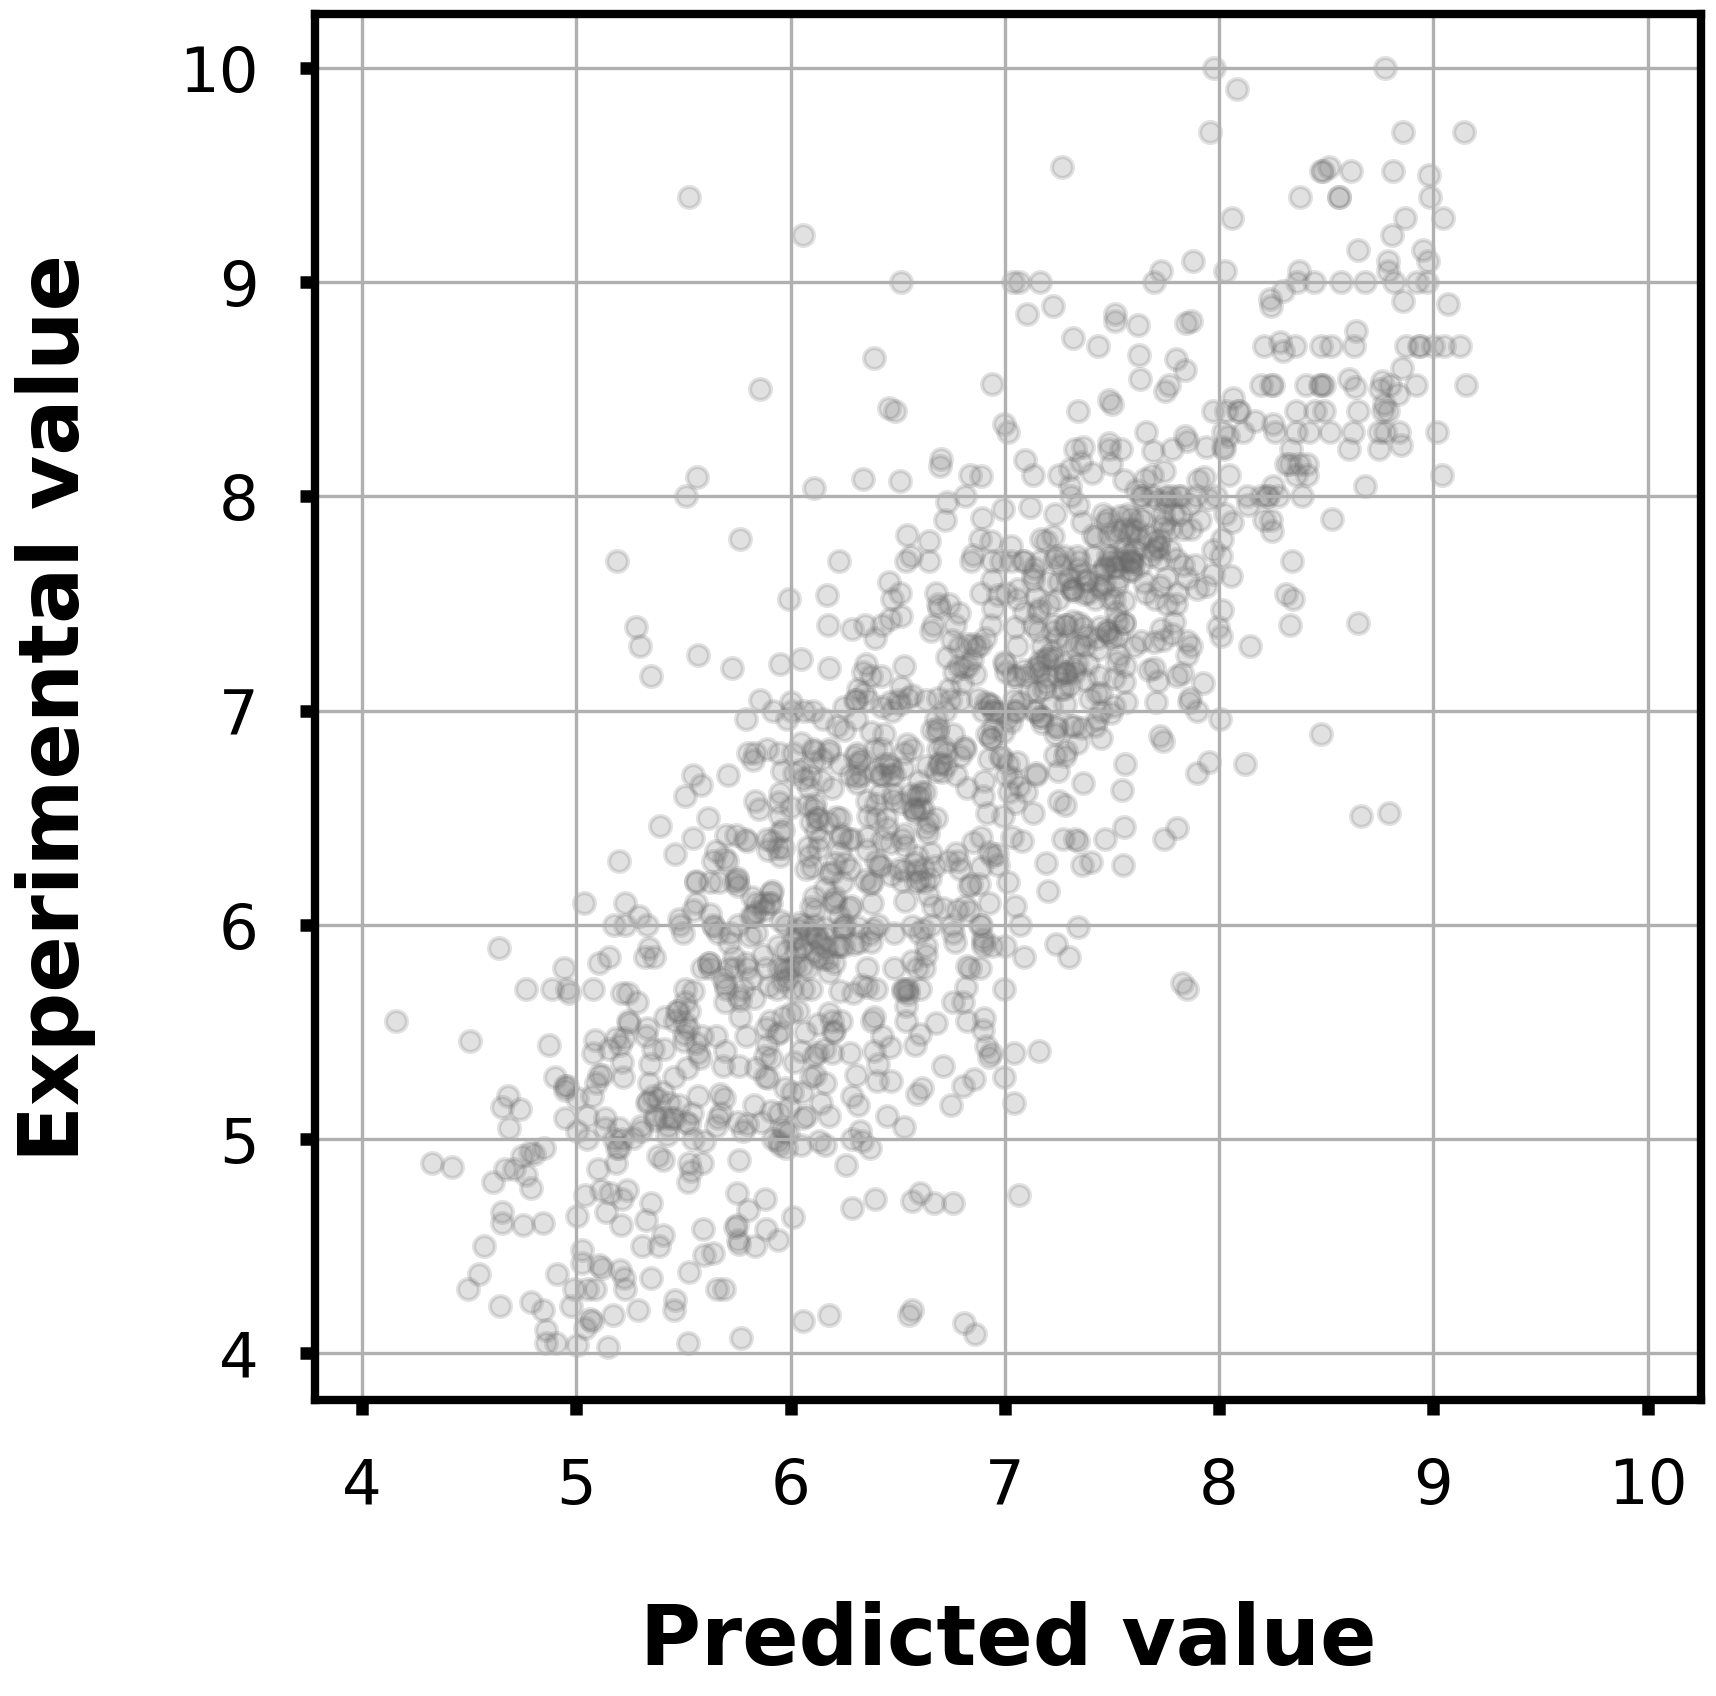
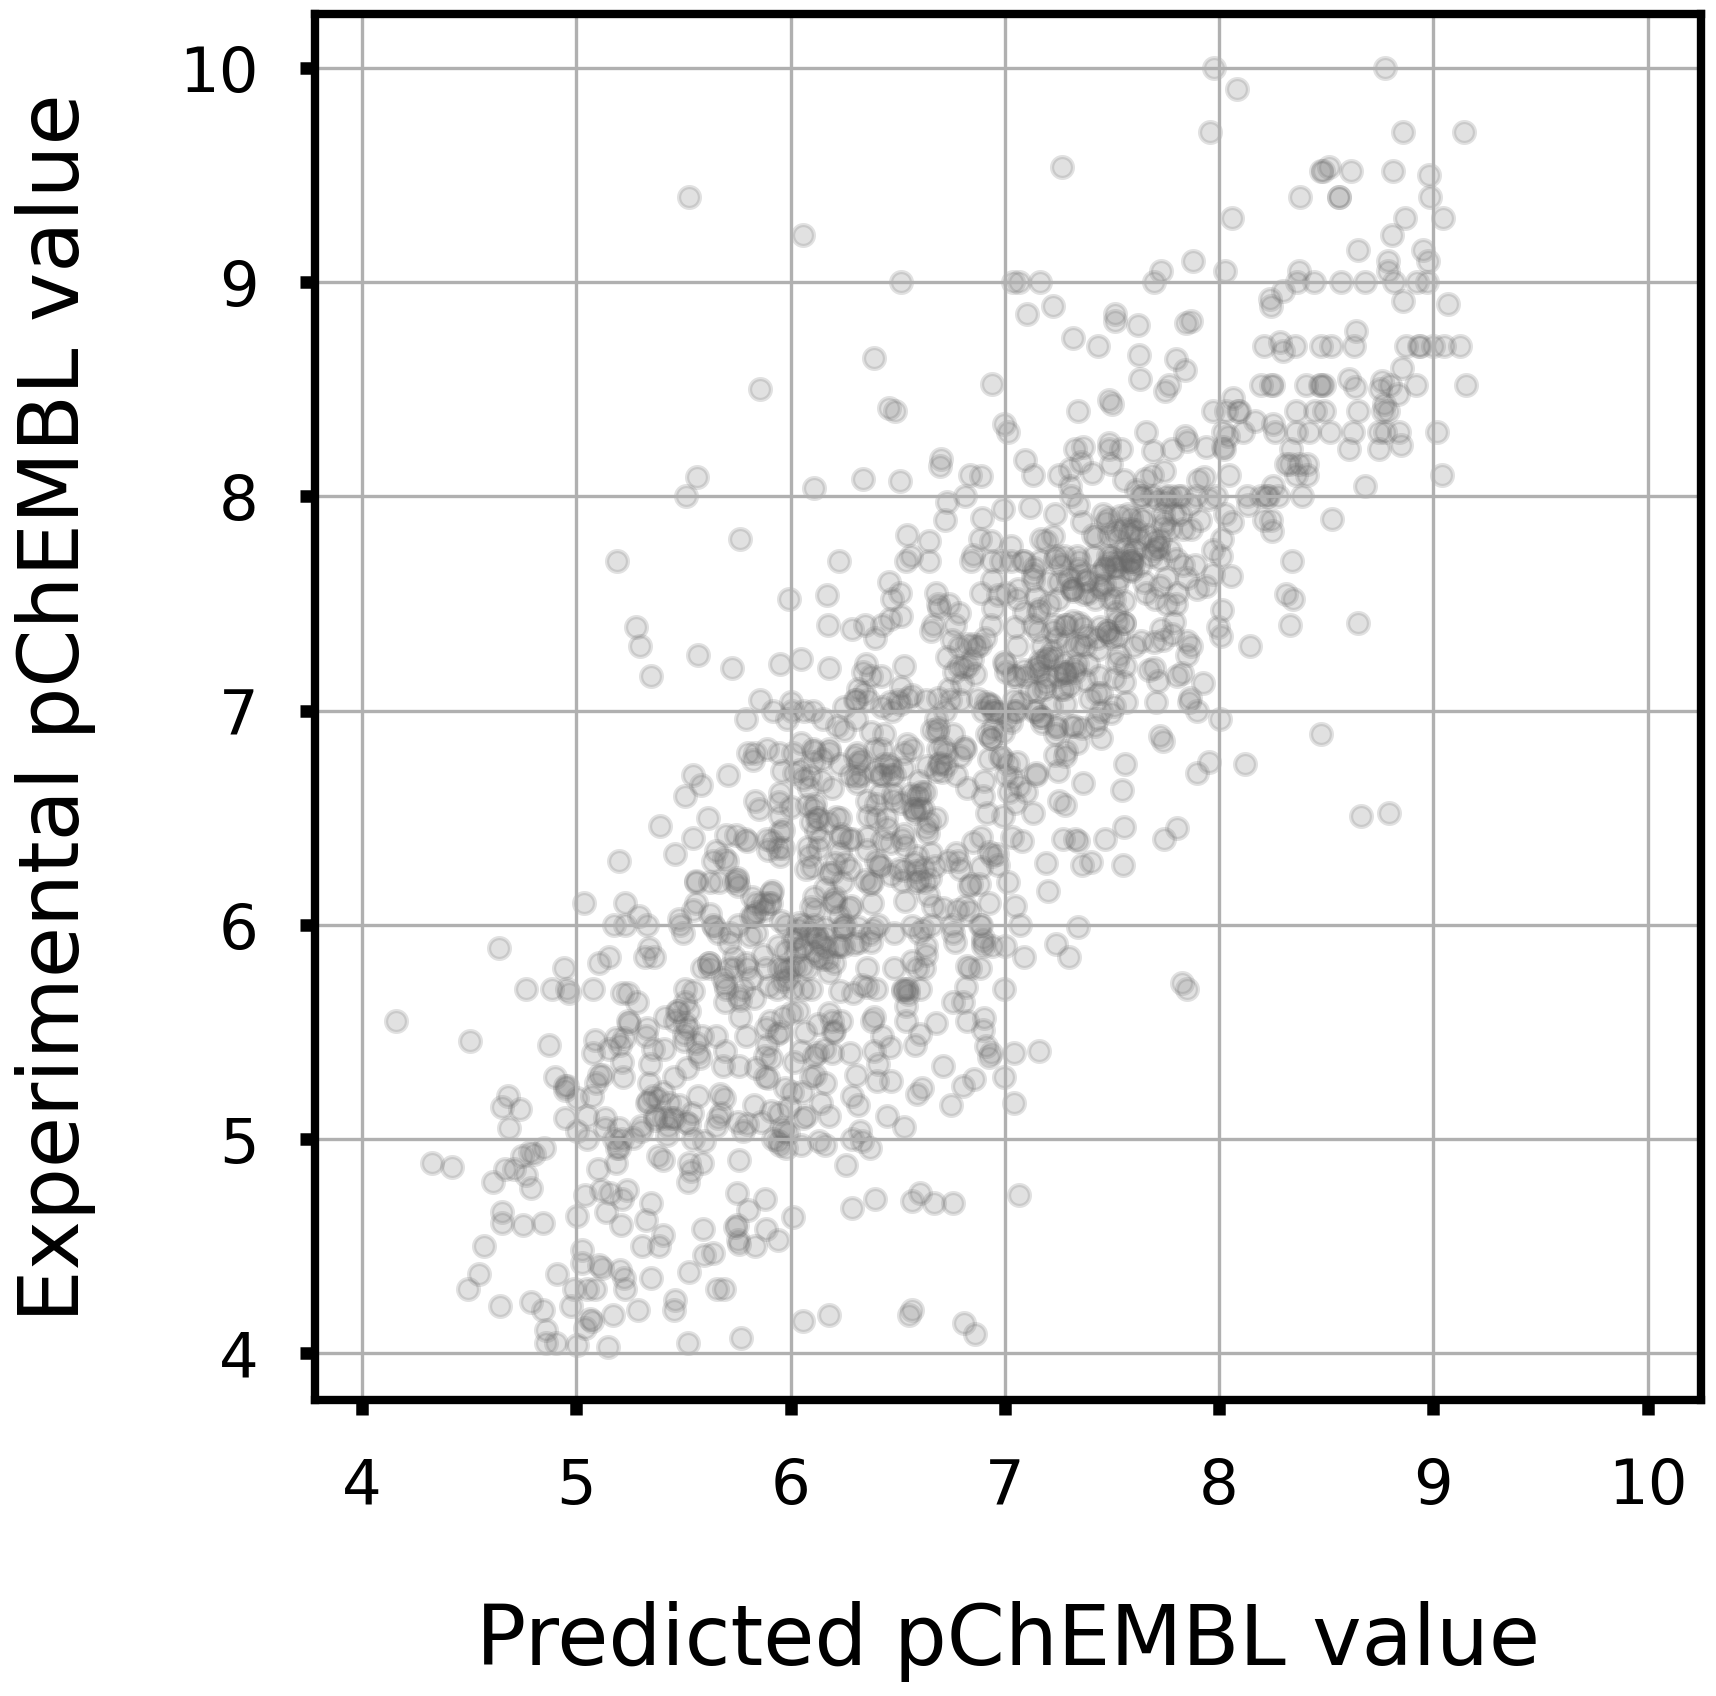
style: edit axis label name and weight

Changed region(s): [[0.0, 0.0625, 0.0618, 0.7812], [0.278, 0.9375, 0.8957, 1.0]]

diff --git a/affinity/BACE1/make_scatter_plot.py b/affinity/BACE1/make_scatter_plot.py
@@ -16,8 +16,8 @@ def make_scatter_plot(y_true, y_pred):
     min_val = min(min(y_true, y_pred, key=min))
     fig, ax = plt.subplots(figsize=(6, 6))
     ax.scatter(y_pred, y_true, marker='o', s=25, c='dimgray', alpha=0.2)
-    ax.set_xlabel('Predicted value', fontsize=20, labelpad=20, weight='bold')
-    ax.set_ylabel('Experimental value', fontsize=20, labelpad=20, weight='bold')
+    ax.set_xlabel('Predicted $\mathrm{pIC_{50}}$', fontsize=20, labelpad=20, weight='normal')
+    ax.set_ylabel('Experimental $\mathrm{pIC_{50}}$', fontsize=20, labelpad=20, weight='normal')
     ax.xaxis.set_tick_params(direction='out', labelsize=15, width=3, pad=10)
     ax.yaxis.set_tick_params(direction='out', labelsize=15, width=3, pad=10)
     ax.xaxis.set_major_locator(mpl.ticker.MultipleLocator(1))

diff --git a/affinity/ABL/make_scatter_plot.py b/affinity/ABL/make_scatter_plot.py
@@ -15,8 +15,8 @@ def make_scatter_plot(y_true, y_pred):
     min_val = min(min(y_true, y_pred, key=min))
     fig, ax = plt.subplots(figsize=(6, 6))
     ax.scatter(y_pred, y_true, marker='o', s=25, c='dimgray', alpha=0.2)
-    ax.set_xlabel('Predicted value', fontsize=20, labelpad=20, weight='bold')
-    ax.set_ylabel('Experimental value', fontsize=20, labelpad=20, weight='bold')
+    ax.set_xlabel('Predicted pChEMBL value', fontsize=20, labelpad=20, weight='normal')
+    ax.set_ylabel('Experimental pChEMBL value', fontsize=20, labelpad=20, weight='normal')
     ax.xaxis.set_tick_params(direction='out', labelsize=15, width=3, pad=10)
     ax.yaxis.set_tick_params(direction='out', labelsize=15, width=3, pad=10)
     ax.xaxis.set_major_locator(mpl.ticker.MultipleLocator(1))

diff --git a/affinity/EGFR/make_scatter_plot.py b/affinity/EGFR/make_scatter_plot.py
@@ -15,8 +15,8 @@ def make_scatter_plot(y_true, y_pred):
     min_val = min(min(y_true, y_pred, key=min))
     fig, ax = plt.subplots(figsize=(6, 6))
     ax.scatter(y_pred, y_true, marker='o', s=25, c='dimgray', alpha=0.2)
-    ax.set_xlabel('Predicted value', fontsize=20, labelpad=20, weight='bold')
-    ax.set_ylabel('Experimental value', fontsize=20, labelpad=20, weight='bold')
+    ax.set_xlabel('Predicted pChEMBL value', fontsize=20, labelpad=20, weight='normal')
+    ax.set_ylabel('Experimental pChEMBL value', fontsize=20, labelpad=20, weight='normal')
     ax.xaxis.set_tick_params(direction='out', labelsize=15, width=3, pad=10)
     ax.yaxis.set_tick_params(direction='out', labelsize=15, width=3, pad=10)
     ax.xaxis.set_major_locator(mpl.ticker.MultipleLocator(1))

diff --git a/affinity/EPHB4/make_scatter_plot.py b/affinity/EPHB4/make_scatter_plot.py
@@ -15,8 +15,8 @@ def make_scatter_plot(y_true, y_pred):
     min_val = min(min(y_true, y_pred, key=min))
     fig, ax = plt.subplots(figsize=(6, 6))
     ax.scatter(y_pred, y_true, marker='o', s=25, c='dimgray', alpha=0.2)
-    ax.set_xlabel('Predicted value', fontsize=20, labelpad=20, weight='bold')
-    ax.set_ylabel('Experimental value', fontsize=20, labelpad=20, weight='bold')
+    ax.set_xlabel('Predicted pChEMBL value', fontsize=20, labelpad=20, weight='normal')
+    ax.set_ylabel('Experimental pChEMBL value', fontsize=20, labelpad=20, weight='normal')
     ax.xaxis.set_tick_params(direction='out', labelsize=15, width=3, pad=10)
     ax.yaxis.set_tick_params(direction='out', labelsize=15, width=3, pad=10)
     ax.xaxis.set_major_locator(mpl.ticker.MultipleLocator(1))

diff --git a/affinity/ERBB2/make_scatter_plot.py b/affinity/ERBB2/make_scatter_plot.py
@@ -15,8 +15,8 @@ def make_scatter_plot(y_true, y_pred):
     min_val = min(min(y_true, y_pred, key=min))
     fig, ax = plt.subplots(figsize=(6, 6))
     ax.scatter(y_pred, y_true, marker='o', s=25, c='dimgray', alpha=0.2)
-    ax.set_xlabel('Predicted value', fontsize=20, labelpad=20, weight='bold')
-    ax.set_ylabel('Experimental value', fontsize=20, labelpad=20, weight='bold')
+    ax.set_xlabel('Predicted pChEMBL value', fontsize=20, labelpad=20, weight='normal')
+    ax.set_ylabel('Experimental pChEMBL value', fontsize=20, labelpad=20, weight='normal')
     ax.xaxis.set_tick_params(direction='out', labelsize=15, width=3, pad=10)
     ax.yaxis.set_tick_params(direction='out', labelsize=15, width=3, pad=10)
     ax.xaxis.set_major_locator(mpl.ticker.MultipleLocator(1))

diff --git a/affinity/ERBB4/make_scatter_plot.py b/affinity/ERBB4/make_scatter_plot.py
@@ -15,8 +15,8 @@ def make_scatter_plot(y_true, y_pred):
     min_val = min(min(y_true, y_pred, key=min))
     fig, ax = plt.subplots(figsize=(6, 6))
     ax.scatter(y_pred, y_true, marker='o', s=25, c='dimgray', alpha=0.2)
-    ax.set_xlabel('Predicted value', fontsize=20, labelpad=20, weight='bold')
-    ax.set_ylabel('Experimental value', fontsize=20, labelpad=20, weight='bold')
+    ax.set_xlabel('Predicted pChEMBL value', fontsize=20, labelpad=20, weight='normal')
+    ax.set_ylabel('Experimental pChEMBL value', fontsize=20, labelpad=20, weight='normal')
     ax.xaxis.set_tick_params(direction='out', labelsize=15, width=3, pad=10)
     ax.yaxis.set_tick_params(direction='out', labelsize=15, width=3, pad=10)
     ax.xaxis.set_major_locator(mpl.ticker.MultipleLocator(1))

diff --git a/affinity/FGFR1/make_scatter_plot.py b/affinity/FGFR1/make_scatter_plot.py
@@ -15,8 +15,8 @@ def make_scatter_plot(y_true, y_pred):
     min_val = min(min(y_true, y_pred, key=min))
     fig, ax = plt.subplots(figsize=(6, 6))
     ax.scatter(y_pred, y_true, marker='o', s=25, c='dimgray', alpha=0.2)
-    ax.set_xlabel('Predicted value', fontsize=20, labelpad=20, weight='bold')
-    ax.set_ylabel('Experimental value', fontsize=20, labelpad=20, weight='bold')
+    ax.set_xlabel('Predicted pChEMBL value', fontsize=20, labelpad=20, weight='normal')
+    ax.set_ylabel('Experimental pChEMBL value', fontsize=20, labelpad=20, weight='normal')
     ax.xaxis.set_tick_params(direction='out', labelsize=15, width=3, pad=10)
     ax.yaxis.set_tick_params(direction='out', labelsize=15, width=3, pad=10)
     ax.xaxis.set_major_locator(mpl.ticker.MultipleLocator(1))

diff --git a/affinity/HCK/make_scatter_plot.py b/affinity/HCK/make_scatter_plot.py
@@ -15,8 +15,8 @@ def make_scatter_plot(y_true, y_pred):
     min_val = min(min(y_true, y_pred, key=min))
     fig, ax = plt.subplots(figsize=(6, 6))
     ax.scatter(y_pred, y_true, marker='o', s=25, c='dimgray', alpha=0.2)
-    ax.set_xlabel('Predicted value', fontsize=20, labelpad=20, weight='bold')
-    ax.set_ylabel('Experimental value', fontsize=20, labelpad=20, weight='bold')
+    ax.set_xlabel('Predicted pChEMBL value', fontsize=20, labelpad=20, weight='normal')
+    ax.set_ylabel('Experimental pChEMBL value', fontsize=20, labelpad=20, weight='normal')
     ax.xaxis.set_tick_params(direction='out', labelsize=15, width=3, pad=10)
     ax.yaxis.set_tick_params(direction='out', labelsize=15, width=3, pad=10)
     ax.xaxis.set_major_locator(mpl.ticker.MultipleLocator(1))

diff --git a/affinity/LCK/make_scatter_plot.py b/affinity/LCK/make_scatter_plot.py
@@ -15,8 +15,8 @@ def make_scatter_plot(y_true, y_pred):
     min_val = min(min(y_true, y_pred, key=min))
     fig, ax = plt.subplots(figsize=(6, 6))
     ax.scatter(y_pred, y_true, marker='o', s=25, c='dimgray', alpha=0.2)
-    ax.set_xlabel('Predicted value', fontsize=20, labelpad=20, weight='bold')
-    ax.set_ylabel('Experimental value', fontsize=20, labelpad=20, weight='bold')
+    ax.set_xlabel('Predicted pChEMBL value', fontsize=20, labelpad=20, weight='normal')
+    ax.set_ylabel('Experimental pChEMBL value', fontsize=20, labelpad=20, weight='normal')
     ax.xaxis.set_tick_params(direction='out', labelsize=15, width=3, pad=10)
     ax.yaxis.set_tick_params(direction='out', labelsize=15, width=3, pad=10)
     ax.xaxis.set_major_locator(mpl.ticker.MultipleLocator(1))

diff --git a/affinity/PDGFRbeta/make_scatter_plot.py b/affinity/PDGFRbeta/make_scatter_plot.py
@@ -15,8 +15,8 @@ def make_scatter_plot(y_true, y_pred):
     min_val = min(min(y_true, y_pred, key=min))
     fig, ax = plt.subplots(figsize=(6, 6))
     ax.scatter(y_pred, y_true, marker='o', s=25, c='dimgray', alpha=0.2)
-    ax.set_xlabel('Predicted value', fontsize=20, labelpad=20, weight='bold')
-    ax.set_ylabel('Experimental value', fontsize=20, labelpad=20, weight='bold')
+    ax.set_xlabel('Predicted pChEMBL value', fontsize=20, labelpad=20, weight='normal')
+    ax.set_ylabel('Experimental pChEMBL value', fontsize=20, labelpad=20, weight='normal')
     ax.xaxis.set_tick_params(direction='out', labelsize=15, width=3, pad=10)
     ax.yaxis.set_tick_params(direction='out', labelsize=15, width=3, pad=10)
     ax.xaxis.set_major_locator(mpl.ticker.MultipleLocator(1))

diff --git a/affinity/SRC/make_scatter_plot.py b/affinity/SRC/make_scatter_plot.py
@@ -15,8 +15,8 @@ def make_scatter_plot(y_true, y_pred):
     min_val = min(min(y_true, y_pred, key=min))
     fig, ax = plt.subplots(figsize=(6, 6))
     ax.scatter(y_pred, y_true, marker='o', s=25, c='dimgray', alpha=0.2)
-    ax.set_xlabel('Predicted value', fontsize=20, labelpad=20, weight='bold')
-    ax.set_ylabel('Experimental value', fontsize=20, labelpad=20, weight='bold')
+    ax.set_xlabel('Predicted pChEMBL value', fontsize=20, labelpad=20, weight='normal')
+    ax.set_ylabel('Experimental pChEMBL value', fontsize=20, labelpad=20, weight='normal')
     ax.xaxis.set_tick_params(direction='out', labelsize=15, width=3, pad=10)
     ax.yaxis.set_tick_params(direction='out', labelsize=15, width=3, pad=10)
     ax.xaxis.set_major_locator(mpl.ticker.MultipleLocator(1))

diff --git a/affinity/VEGFR2/make_scatter_plot.py b/affinity/VEGFR2/make_scatter_plot.py
@@ -15,8 +15,8 @@ def make_scatter_plot(y_true, y_pred):
     min_val = min(min(y_true, y_pred, key=min))
     fig, ax = plt.subplots(figsize=(6, 6))
     ax.scatter(y_pred, y_true, marker='o', s=25, c='dimgray', alpha=0.2)
-    ax.set_xlabel('Predicted value', fontsize=20, labelpad=20, weight='bold')
-    ax.set_ylabel('Experimental value', fontsize=20, labelpad=20, weight='bold')
+    ax.set_xlabel('Predicted pChEMBL value', fontsize=20, labelpad=20, weight='normal')
+    ax.set_ylabel('Experimental pChEMBL value', fontsize=20, labelpad=20, weight='normal')
     ax.xaxis.set_tick_params(direction='out', labelsize=15, width=3, pad=10)
     ax.yaxis.set_tick_params(direction='out', labelsize=15, width=3, pad=10)
     ax.xaxis.set_major_locator(mpl.ticker.MultipleLocator(1))
